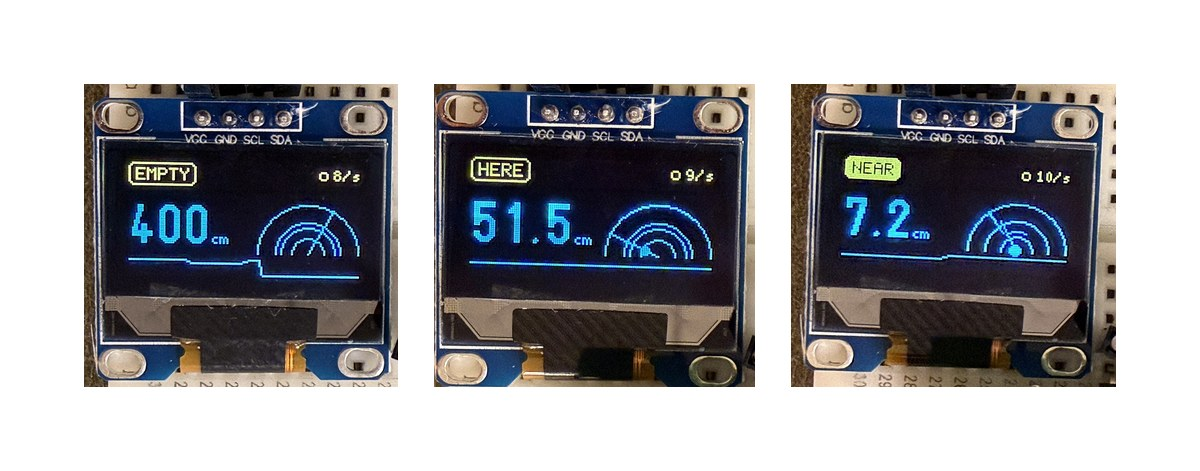
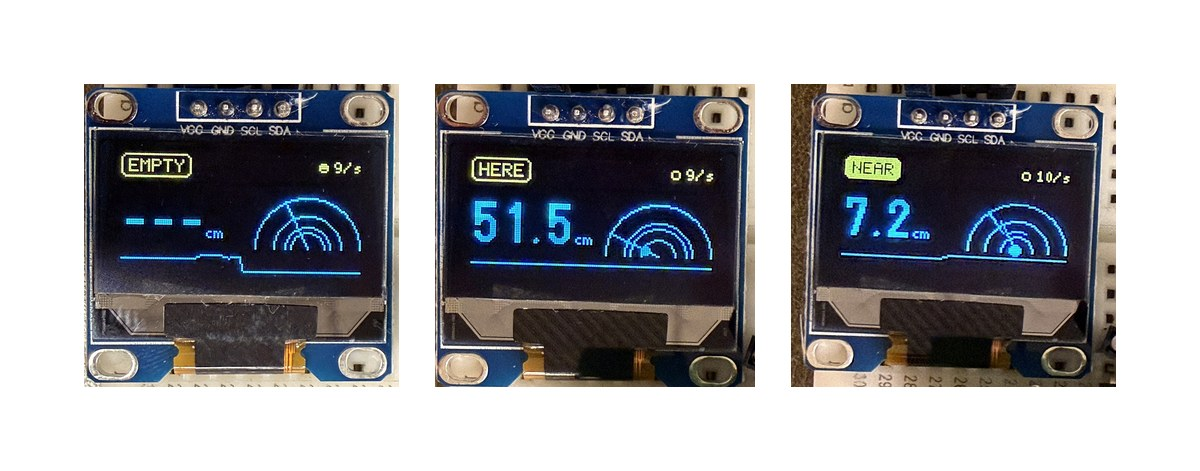
bench: EMPTY panel retaken with the no-echo readout; note the sensor's cone
Claude-Session: https://claude.ai/code/session_01BwJSVfKeyaBn7cnsbwSU9V

Changed region(s): [[0.0617, 0.1783, 0.5858, 0.8323], [0.555, 0.3567, 0.5858, 0.3864]]

diff --git a/bench/README.md b/bench/README.md
@@ -55,7 +55,7 @@ Flash `bench/bench.ino` for the sensor alone. Open `bench.html` on localhost in 
 
 | Sensor | A signal it can give | Watch for |
 |---|---|---|
-| HC-SR04 ultrasonic | `near`, `present` | The worked example in `bench.ino`. Soft clothing swallows the echo. |
+| HC-SR04 ultrasonic | `near`, `present` | The worked example in `bench.ino`. It reports the nearest thing in a cone about 30° wide, so flat on a desk it hears the desk: aim it up or off the edge. Soft clothing swallows the echo. |
 | PIR motion | `moving` | On or off, and it holds itself on for a few seconds. Someone standing still disappears. |
 | Photoresistor | `shade` | Needs a 10k resistor beside it. The room's light changes through the day. |
 | TCRT5000 reflective IR | `close` | A hand within a few centimetres, nothing further. |
